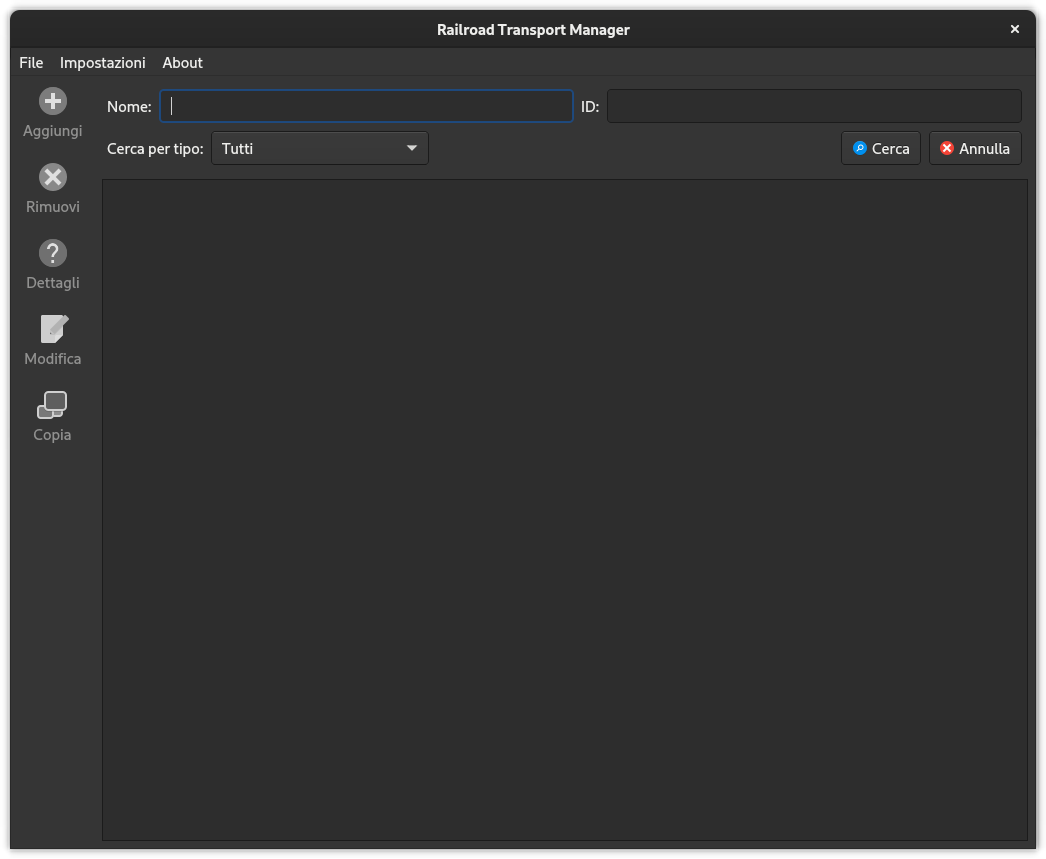
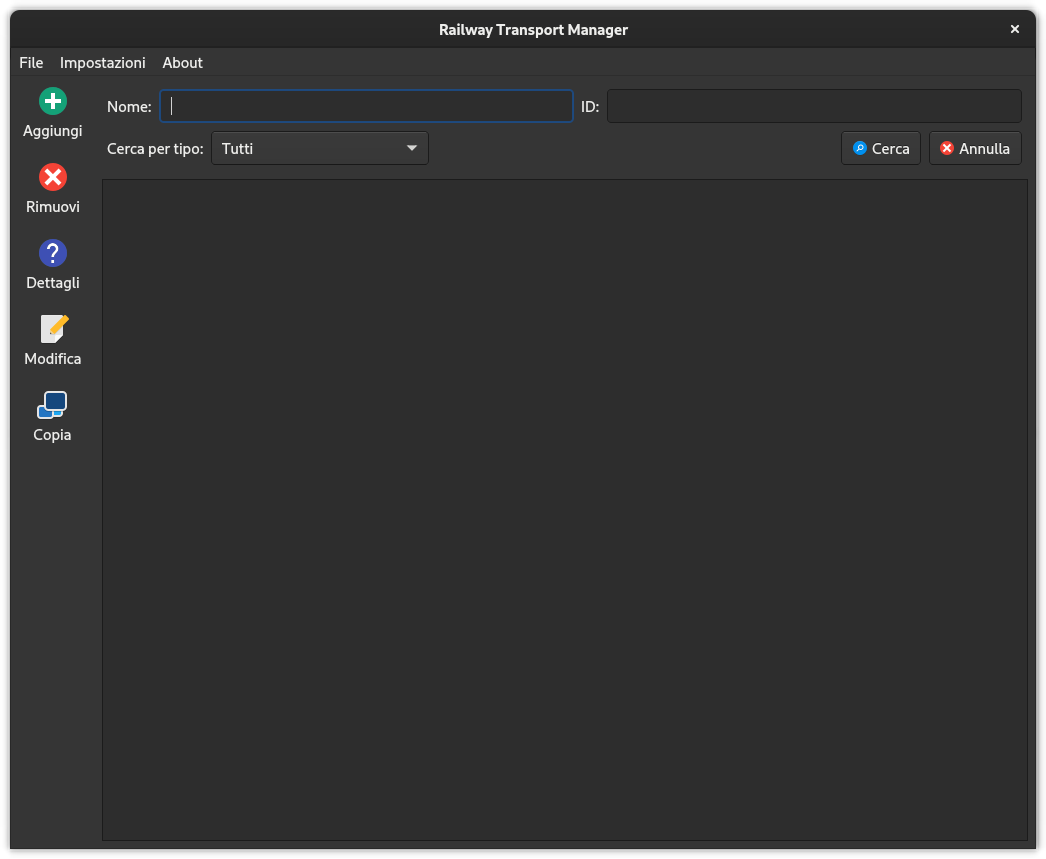
Fix some issues

diff --git a/src/views/main_window.cpp b/src/views/main_window.cpp
@@ -11,7 +11,7 @@
 namespace rtm::gui
 {
 
-const QString &main_window::window_title = "Railroad Transport Manager";
+const QString &main_window::window_title = "Railway Transport Manager";
 
 main_window::main_window (settings &_settings, QWidget *parent)
     : QMainWindow (parent), r_vehicle_selected (nullptr),
